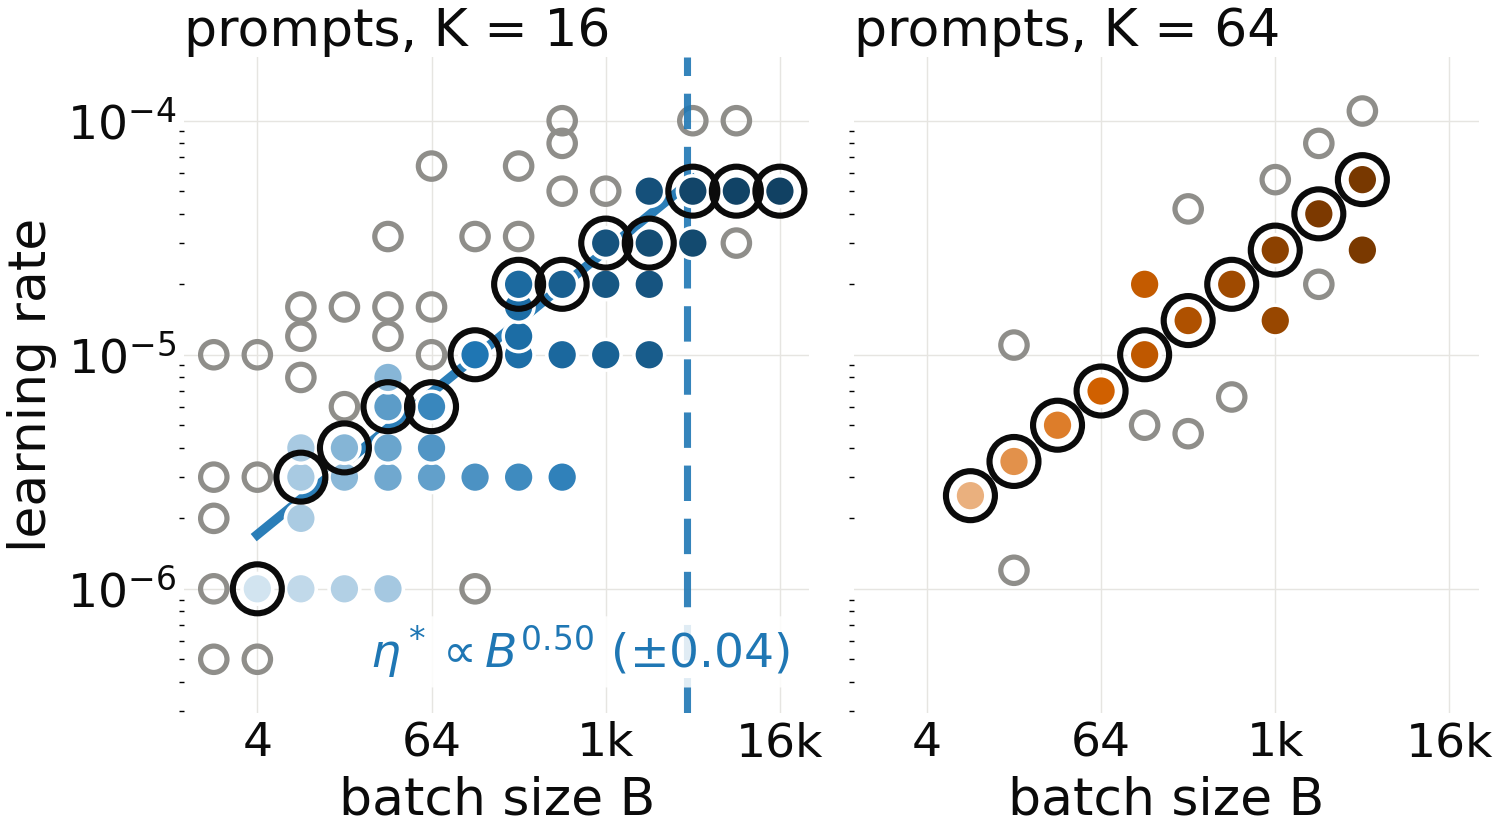
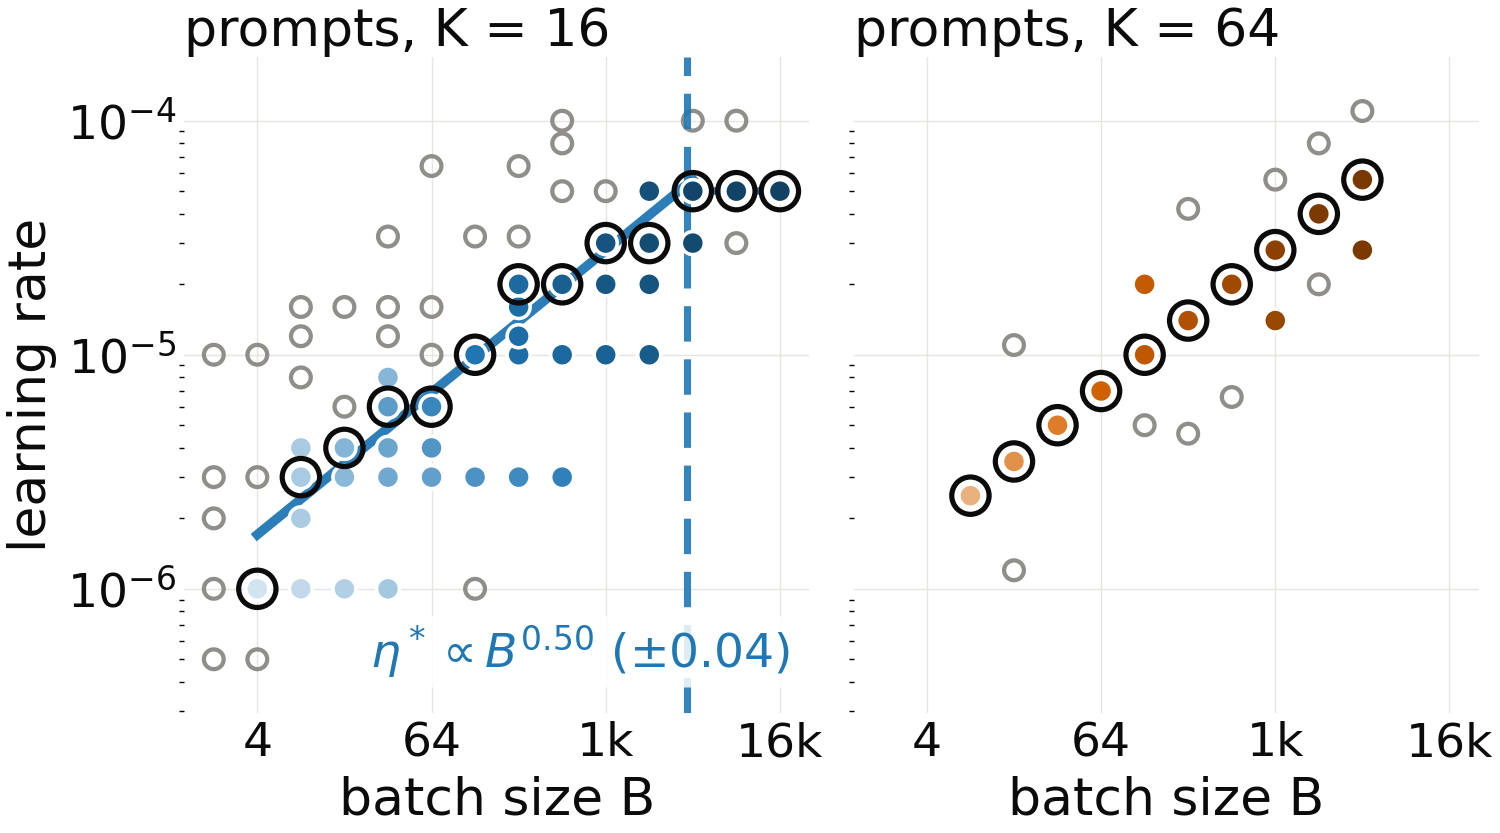
plots: LR figure paper layout uses smaller markers and rings
Claude-Session: https://claude.ai/code/session_01W75chJn3avZzxyPZDywWSf

diff --git a/plots/scripts/plot_steps_to_50_combined.py b/plots/scripts/plot_steps_to_50_combined.py
@@ -80,8 +80,8 @@ if SPLIT:
     sys.path.insert(0, os.path.dirname(os.path.abspath(__file__)))
     import paperstyle as PS
     TICK, LABEL, TITLE, NOTE, LEGEND, CBAR = PS.FS["tick"], PS.FS["label"], PS.FS["title"], PS.FS["annot"], PS.FS["legend"], PS.FS["label"]
-    SZ = dict(hit=170, miss=125, short=110, ring=430, ring_lw=2.6, edge_lw=2.2, fit_lw=PS.LW["line"], plateau_lw=3.2, star_lw=PS.LW["crit"],
-              leg_ms=12, leg_ring=16, strip_h=1.2, W=PS.TEXTWIDTH_IN * PS.K_CANVAS, H=4.9)
+    SZ = dict(hit=95, miss=70, short=65, ring=250, ring_lw=2.2, edge_lw=1.8, fit_lw=PS.LW["line"], plateau_lw=3.2, star_lw=PS.LW["crit"],
+              leg_ms=10, leg_ring=13, strip_h=1.2, W=PS.TEXTWIDTH_IN * PS.K_CANVAS, H=4.9)
 else:
     SZ = dict(hit=260, miss=190, short=170, ring=720, ring_lw=3.4, edge_lw=2.6, fit_lw=4.6, plateau_lw=3.6, star_lw=3.6,
               leg_ms=16, leg_ring=22, strip_h=2.3, W=26.0, H=7.4)
